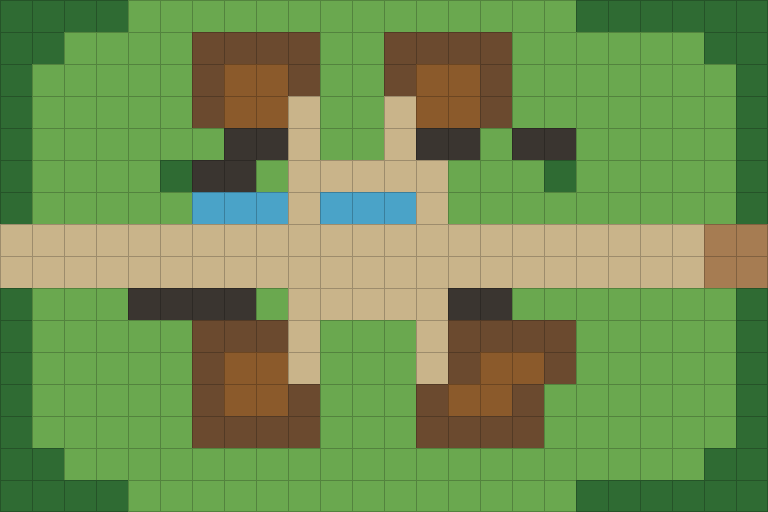
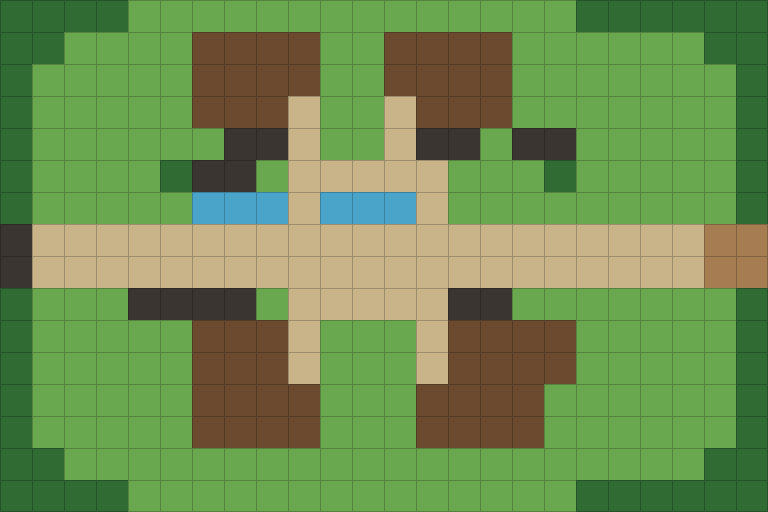
Close Ba Dan's house floors, flood the west ford and widen the river-path mouth
The plank floors under the four house roofs are solid; the = doorsteps stay
open (Gao's routine steps through (9,3)). (0,7) and (0,8) become W, the ford
where the west road ends. The river path is a three-cell mouth at x18-20 and
the riverside now arrives at (19,13), beside it. The village declares its
north and south lawn edges as bands and enforces its edge contract. A load
snaps a party saved on the ford or a house floor to open ground.

diff --git a/src/content/maps/village.ts b/src/content/maps/village.ts
@@ -25,20 +25,28 @@ export const BA_DAN_VILLAGE: MapDef = {
   height: 16,
   ambience: 'village',
   legend: { ...LEGEND, l: { terrain: 'stone', blocked: true, blocksSight: false } },
+  /*
+   * The house bodies are solid: their plank floors (`w` until the edges pass)
+   * were walkable cells under the painted roofs. Only the `=` doorsteps where
+   * each paved path meets its house stay open; Gao's routine steps from his
+   * lane at (9,4) up to (10,3), a diagonal that needs (9,3) open. The west
+   * road ends at the ford, `W` at (0,7) and (0,8), flooded this season; a
+   * future west region opens there behind a `Condition`, not through the rim.
+   */
   rows: [
     'TTTT,,,,,,,,,,,,,,TTTTTT',
     'TT,,,,BBBB,,BBBB,,,,,,TT',
-    'T,,,,,BwwB,,BwwB,,,,,,,T',
-    'T,,,,,Bww=,,=wwB,,,,,,,T',
+    'T,,,,,BBBB,,BBBB,,,,,,,T',
+    'T,,,,,BBB=,,=BBB,,,,,,,T',
     'T,,,,,,,,=,,=,,,,,,,,,,T',
     'T,,,,,,,,=====,,,,,,,,,T',
     'T,,,,,~~~=~~~=,,,,,,,,,T',
-    '======================..',
-    '======================..',
+    'W=====================..',
+    'W=====================..',
     'T,,,,,,,,=====,,,,,,,,,T',
     'T,,,,,BBB=,,,=BBBB,,,,,T',
-    'T,,,,,Bww=,,,=BwwB,,,,,T',
-    'T,,,,,BwwB,,,BwwB,,,,,,T',
+    'T,,,,,BBB=,,,=BBBB,,,,,T',
+    'T,,,,,BBBB,,,BBBB,,,,,,T',
     'T,,,,,BBBB,,,BBBB,,,,,,T',
     'TT,,,,,,,,,,,,,,,,,,,,TT',
     'TTTT,,,,,,,,,,,,,,TTTTTT',
@@ -55,6 +63,17 @@ export const BA_DAN_VILLAGE: MapDef = {
   ),
   partySpawns: [{ x: 3, y: 7 }],
   exit: { pos: { x: 23, y: 7 }, label: 'The east road, toward the quarry' },
+  /*
+   * The only walkable rim is the lawn along the north and south edges, and
+   * both are bands drawn just outside it: north, a dry-stone tea terrace
+   * (`BA_DAN_NORTH_TERRACE`); south, the canal's low kerb and water. Every
+   * other rim cell is a tree, the ford, or the east road's two-cell mouth.
+   */
+  edges: [
+    { side: 'north', span: [4, 17], treatment: 'band' },
+    { side: 'south', span: [4, 17], treatment: 'band' },
+  ],
+  edgeContract: 'enforce',
   restSpots: [{ pos: { x: 10, y: 5 }, label: "Mira's table" }],
   npcs: [
     {

diff --git a/src/core/save/reconcileWorld.test.ts b/src/core/save/reconcileWorld.test.ts
@@ -400,3 +400,36 @@ suite('reconcileWorld: the explore snap (M9)', () => {
     expect(reconciled.battle).toEqual(state.battle);
   });
 });
+
+suite('reconcileWorld: the Ba Dan edge rebuild (A5)', () => {
+  const map = CONTENT.maps.get('ba_dan_village');
+  if (!map) throw new Error('Missing Ba Dan village');
+  const grid = buildGrid(map);
+
+  /** A save written before the rebuild, loaded through the app's real path. */
+  function loadOldVillageSave(pos: Vec2): GameState {
+    const saved = exploring({ location: { mapId: 'ba_dan_village', pos } });
+    const result = deserialize(serialize(saved, META));
+    if (!result.ok) throw new Error(result.error);
+    return reconcileWorld(CONTENT, stateFromBlob(result.blob));
+  }
+
+  it('moves a party saved on the old west road end off the flooded ford', () => {
+    // (0,7) was the road's last cell and is the ford now. Its first ring
+    // holds (1,6) grass and (1,7), (1,8) road; row-major takes the topmost.
+    expect(tileAt(grid, { x: 0, y: 7 })?.blocked).toBe(true);
+    const reconciled = loadOldVillageSave({ x: 0, y: 7 });
+
+    expect(reconciled.location).toEqual({ mapId: 'ba_dan_village', pos: { x: 1, y: 6 } });
+    expect(tileAt(grid, reconciled.location.pos)?.blocked).toBe(false);
+    expect(reconcileWorld(CONTENT, reconciled).location).toEqual(reconciled.location);
+  });
+
+  it('moves a party saved on a house floor out to open ground', () => {
+    // (7,11) was the south-west dwelling's plank floor.
+    const reconciled = loadOldVillageSave({ x: 7, y: 11 });
+
+    expect(reconciled.location.pos).not.toEqual({ x: 7, y: 11 });
+    expect(tileAt(grid, reconciled.location.pos)?.blocked).toBe(false);
+  });
+});

diff --git a/src/core/state/explore.test.ts b/src/core/state/explore.test.ts
@@ -4,6 +4,7 @@ import type { GameEvent, GameState, Vec2 } from '../types';
 import { createGame } from './createGame';
 import { apply } from './reducer';
 import { serialize, deserialize, stateFromBlob } from '../save/serialize';
+import { reconcileWorld } from '../save/reconcile';
 import { buildGrid, tileAt } from '../rules/grid';
 import { visibleNpcs } from '../story/world';
 
@@ -53,8 +54,10 @@ describe('walking the village', () => {
         }),
       );
       if (!loaded.ok) throw new Error('Could not reload village save');
-      const restored = stateFromBlob(loaded.blob);
-      expect(restored.location).toEqual(before.location);
+      // A load reconciles as `App.adoptSave` does: (7,3) was Gao's plank
+      // floor until the house bodies closed, and the M9 snap moves it out.
+      const restored = reconcileWorld(CONTENT, stateFromBlob(loaded.blob));
+      expect(tileAt(buildGrid(map), restored.location.pos)?.blocked).toBe(false);
       const result = apply(CONTENT, restored, { type: 'walkTo', pos: gao.pos });
       expect(result.state.screen).toBe('dialogue');
       expect(result.state.story.nodeId).toBe('gao_friendly');

diff --git a/src/app/world/guidance.test.ts b/src/app/world/guidance.test.ts
@@ -99,11 +99,13 @@ describe('nearby exploration guidance', () => {
   });
 
   it('keeps a single-tile exit matching only its own tile (M2)', () => {
-    const village = CONTENT.maps.get('ba_dan_village');
-    if (!village) throw new Error('Missing Ba Dan village');
-    const single = village.exits?.find((exit) => exit.toMapId === 'ba_dan_riverside');
-    if (!single) throw new Error('Missing the river path');
-    expect(nearbyExits(village, single.pos)).toContain(single);
-    expect(nearbyExits(village, { x: single.pos.x - 2, y: single.pos.y })).toEqual([]);
+    // The village's river path became a three-cell mouth; the quarry floor's
+    // west path is still one tile.
+    const floor = CONTENT.maps.get('quarry_floor');
+    if (!floor) throw new Error('Missing the quarry floor');
+    const single = floor.exits?.find((exit) => exit.toMapId === 'ambush_road');
+    if (!single || single.area) throw new Error('Missing the single-tile west path');
+    expect(nearbyExits(floor, single.pos)).toContain(single);
+    expect(nearbyExits(floor, { x: single.pos.x + 2, y: single.pos.y })).toEqual([]);
   });
 });

diff --git a/src/content/maps/world.ts b/src/content/maps/world.ts
@@ -75,7 +75,14 @@ export function connectAct1(map: MapDef): MapDef {
             'East road → Forest Road',
             mouth(23, [7, 8]),
           ),
-          route({ x: 19, y: 14 }, 'ba_dan_riverside', { x: 10, y: 19 }, 'River path → Riverside'),
+          route(
+            { x: 19, y: 14 },
+            'ba_dan_riverside',
+            { x: 10, y: 19 },
+            'River path → Riverside',
+            // The path's mouth between the rim trees at (18,15) and (21,15).
+            [18, 19, 20].map((x) => ({ x, y: 14 })),
+          ),
         ],
       };
     case 'ba_dan_riverside':
@@ -98,7 +105,8 @@ export function connectAct1(map: MapDef): MapDef {
           route(
             { x: 10, y: 20 },
             'ba_dan_village',
-            { x: 18, y: 14 },
+            // One step inside the village's river-path mouth, never on it.
+            { x: 19, y: 13 },
             'South path → Ba Dan Village',
             // The south path from row 20 to the rim: it leaves with no tile to miss.
             [

diff --git a/src/content/content.test.ts b/src/content/content.test.ts
@@ -358,10 +358,12 @@ describe('content', () => {
     const probe = (area: { x: number; y: number }[]) =>
       validateContent({ ...CONTENT_BUNDLE, maps: withArea(area) });
 
-    // The gate tile and the road tile immediately west of it.
+    // The gate tile and the road tile immediately west of it. The village
+    // enforces its edge contract, so the gate's second rim cell stays covered.
     const gate = { x: 23, y: 7 };
     const beside = { x: 22, y: 7 };
-    expect(probe([gate, beside]).filter((p) => p.includes('exit'))).toEqual([]);
+    const rim = { x: 23, y: 8 };
+    expect(probe([gate, rim, beside]).filter((p) => p.includes('exit'))).toEqual([]);
     expect(probe([beside])).toContain(
       `map "${mapId}" exit at (${gate.x},${gate.y}) is not part of its area`,
     );

diff --git a/src/app/world/journal.test.ts b/src/app/world/journal.test.ts
@@ -173,7 +173,7 @@ describe('travel journal and riverside routes', () => {
     const initial = start();
     let state = apply(CONTENT, initial, { type: 'setFlags', flags: { riverside_pet: true } }).state;
     state = apply(CONTENT, state, { type: 'walkTo', pos: { x: 10, y: 20 } }).state;
-    expect(state.location).toEqual({ mapId: 'ba_dan_village', pos: { x: 18, y: 14 } });
+    expect(state.location).toEqual({ mapId: 'ba_dan_village', pos: { x: 19, y: 13 } });
     expect(state.story.nodeId).toBeNull();
     state = apply(CONTENT, state, { type: 'walkTo', pos: { x: 19, y: 14 } }).state;
     expect(state.location).toEqual({ mapId: 'ba_dan_riverside', pos: { x: 10, y: 19 } });

diff --git a/src/content/scenes/baDan.test.ts b/src/content/scenes/baDan.test.ts
@@ -443,8 +443,10 @@ it('keeps court trunks solid and both shop doors and village routes reachable', 
     { x: 17, y: 6 },
   ])
     expect(paths.has(posKey(pos)), `Unreachable court destination ${posKey(pos)}`).toBe(true);
+  // The road is open from the ford's bank to the east gate; the ford is not.
   for (const y of [7, 8]) {
-    for (let x = 0; x < map.width; x++) expect(tileAt(grid, { x, y })?.blocked).not.toBe(true);
+    expect(tileAt(grid, { x: 0, y })).toMatchObject({ terrain: 'water_deep', blocked: true });
+    for (let x = 1; x < map.width; x++) expect(tileAt(grid, { x, y })?.blocked).not.toBe(true);
   }
 });
 

diff --git a/src/app/anim/trail.test.ts b/src/app/anim/trail.test.ts
@@ -37,11 +37,12 @@ describe('placeParty', () => {
   });
 
   it('leads the line straight away from the exit', () => {
+    // Straight west along the road until the ford at (0,7), then beside it.
     expect(placeParty(grid, spawn, 4, { awayFrom: exit })).toEqual([
       { x: 3, y: 7 },
       { x: 2, y: 7 },
       { x: 1, y: 7 },
-      { x: 0, y: 7 },
+      { x: 1, y: 8 },
     ]);
   });
 

diff --git a/docs/art/prompts/maps/ba_dan_village.md b/docs/art/prompts/maps/ba_dan_village.md
@@ -8,7 +8,7 @@
 
 **Layout** `ba_dan_village-layout.png` beside this file: the tile grid as flat colour blocks at 32 px a tile, with the grid drawn. Hand it to the generator as the composition reference (image-to-image or a structure control) at a strength that keeps every edge where it is; upscale it to the delivery size first so the generator does not invent a border.
 
-**Palette** hue anchors from the game's own ground (`src/render/palettes.ts`): grass `#6f9e4c`, wood `#6b4f33`, road `#b39064`, stone `#d8cbb0`, dirt `#b39064`, still water `#3e8fb0`. The painting replaces those tones outright, so lighter and more saturated is fine; stay in the same families so the effects and the parchment HUD still read over it.
+**Palette** hue anchors from the game's own ground (`src/render/palettes.ts`): grass `#6f9e4c`, wood `#6b4f33`, road `#b39064`, stone `#d8cbb0`, dirt `#b39064`, water deep `#1f4a5e`, still water `#3e8fb0`. The painting replaces those tones outright, so lighter and more saturated is fine; stay in the same families so the effects and the parchment HUD still read over it.
 
 ## Where
 
@@ -18,12 +18,11 @@ Ba Dan, the small village the party sets out from: a clearing in the woods.
 
 24 columns by 16 rows, counted from 0 at the top-left corner. The painting is the ground and what stands on it, nothing else: the game draws its own grid, movement contours, units, props and effects over it, so every edge in the painting that matters to the rules sits exactly on a tile edge.
 
-- Road (64 tiles): 64 tiles (the centre), rows 3–4: columns 9 and 12; rows 5 and 9: columns 9–13; rows 6 and 10–11: columns 9 and 13; rows 7–8: columns 0–21.
+- Road (62 tiles): 62 tiles (the centre), rows 3–4: columns 9 and 12; rows 5 and 9: columns 9–13; rows 6 and 10–11: columns 9 and 13; rows 7–8: columns 1–21.
 - Still water (6 tiles): a 3×1 block at columns 6–8, row 6 (middle left); a 3×1 block at columns 10–12, row 6 (the centre).
 - Trees (50 tiles): 13 tiles (top right), row 0: columns 18–23; row 1: columns 22–23; rows 2–6: column 23; 13 tiles (bottom right), rows 9–13: column 23; row 14: columns 22–23; row 15: columns 18–23; 11 tiles (top left), row 0: columns 0–3; row 1: columns 0–1; rows 2–6: column 0; 11 tiles (bottom left), rows 9–13: column 0; row 14: columns 0–1; row 15: columns 0–3; one tile at column 5, row 5 (middle left); one tile at column 17, row 5 (middle right).
-- Timber walls (36 tiles): 10 tiles (bottom centre), row 10: columns 6–8; row 11: column 6; row 12: columns 6 and 9; row 13: columns 6–9; 7 tiles (top centre), row 1: columns 6–9; row 2: columns 6 and 9; row 3: column 6; 7 tiles (top centre), row 1: columns 12–15; row 2: columns 12 and 15; row 3: column 15; 6 tiles (bottom centre), row 10: columns 14–17; row 11: columns 14 and 17; 6 tiles (bottom centre), row 12: columns 13 and 16; row 13: columns 13–16.
-- Stone walls (14 tiles): 4 tiles (top left), row 4: columns 7–8; row 5: columns 6–7; a 4×1 block at columns 4–7, row 9 (middle left); a 2×1 block at columns 13–14, row 4 (top centre); a 2×1 block at columns 16–17, row 4 (top right); a 2×1 block at columns 14–15, row 9 (the centre).
-- Plank floors (16 tiles): a 2×2 block at columns 7–8, rows 2–3 (top centre); a 2×2 block at columns 13–14, rows 2–3 (top centre); a 2×2 block at columns 7–8, rows 11–12 (bottom centre); 4 tiles (bottom centre), row 11: columns 15–16; row 12: columns 14–15.
+- Timber walls (52 tiles): 16 tiles (bottom centre), rows 10–11: columns 14–17; rows 12–13: columns 13–16; 14 tiles (bottom centre), rows 10–11: columns 6–8; rows 12–13: columns 6–9; 11 tiles (top centre), rows 1–2: columns 6–9; row 3: columns 6–8; 11 tiles (top centre), rows 1–2: columns 12–15; row 3: columns 13–15.
+- Stone walls (16 tiles): 4 tiles (top left), row 4: columns 7–8; row 5: columns 6–7; a 4×1 block at columns 4–7, row 9 (middle left); a 2×1 block at columns 13–14, row 4 (top centre); a 2×1 block at columns 16–17, row 4 (top right); a 1×2 block at column 0, rows 7–8 (middle left); a 2×1 block at columns 14–15, row 9 (the centre).
 - Open ground everywhere else: grass (194 tiles), bare earth (4 tiles).
 - The party enters from the left, standing at (3, 7); enemies come from the right. The exit is at (23, 7). Paint nothing there that would read as an object to walk round.
 
@@ -32,23 +31,23 @@ The rows as the rules read them:
 ```
 TTTT,,,,,,,,,,,,,,TTTTTT
 TT,,,,BBBB,,BBBB,,,,,,TT
-T,,,,,BwwB,,BwwB,,,,,,,T
-T,,,,,Bww=,,=wwB,,,,,,,T
+T,,,,,BBBB,,BBBB,,,,,,,T
+T,,,,,BBB=,,=BBB,,,,,,,T
 T,,,,,,ll=,,=ll,ll,,,,,T
 T,,,,Tll,=====,,,T,,,,,T
 T,,,,,~~~=~~~=,,,,,,,,,T
-======================..
-======================..
+W=====================..
+W=====================..
 T,,,llll,=====ll,,,,,,,T
 T,,,,,BBB=,,,=BBBB,,,,,T
-T,,,,,Bww=,,,=BwwB,,,,,T
-T,,,,,BwwB,,,BwwB,,,,,,T
+T,,,,,BBB=,,,=BBBB,,,,,T
+T,,,,,BBBB,,,BBBB,,,,,,T
 T,,,,,BBBB,,,BBBB,,,,,,T
 TT,,,,,,,,,,,,,,,,,,,,TT
 TTTT,,,,,,,,,,,,,,TTTTTT
 ```
 
-Legend: `T` trees; `,` grass; `B` timber walls; `w` plank floors; `=` road; `l` stone walls; `~` still water; `.` bare earth.
+Legend: `T` trees; `,` grass; `B` timber walls; `=` road; `l` stone walls; `~` still water; `W` stone walls; `.` bare earth.
 
 ## Prompt
 
